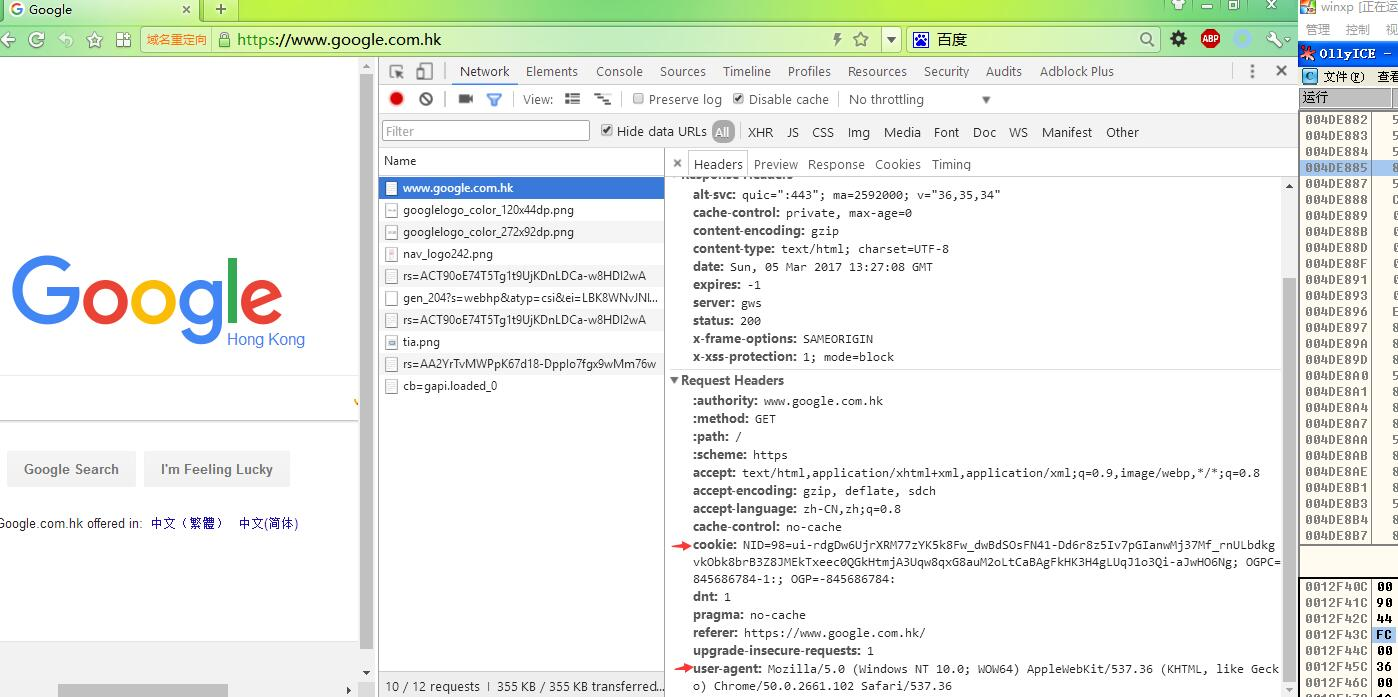
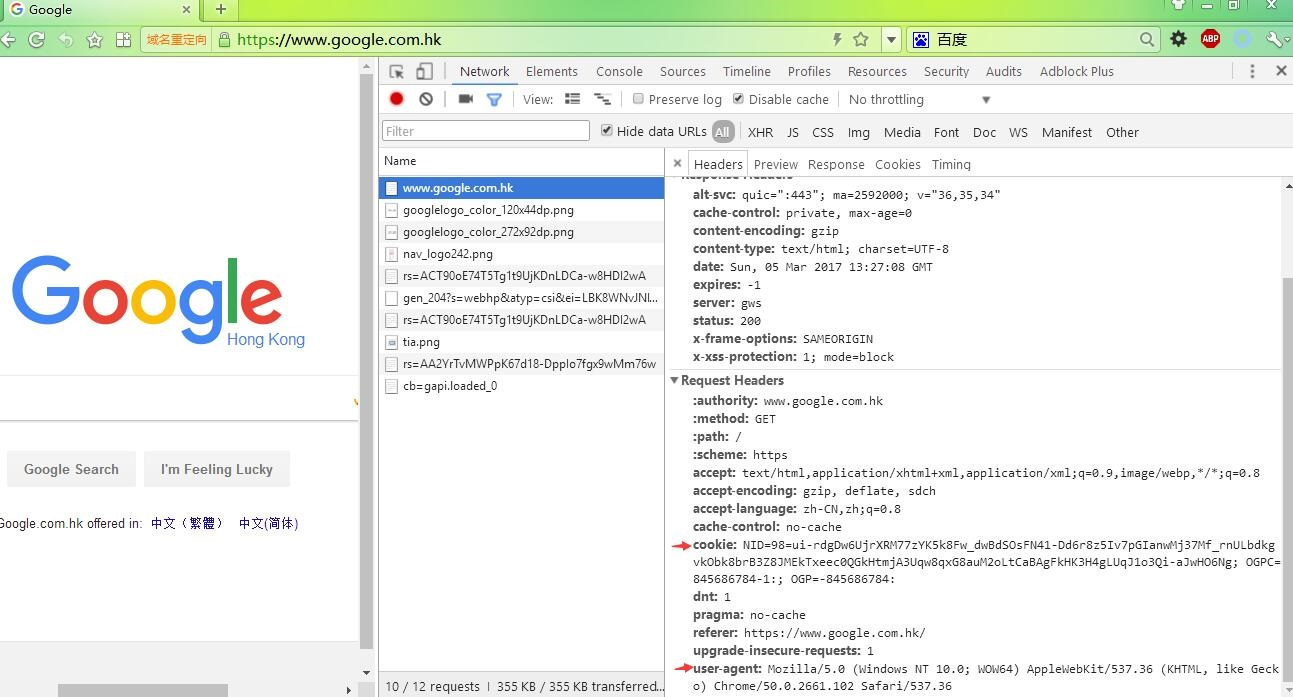
Make a request: get/post

diff --git a/README.md b/README.md
@@ -49,7 +49,16 @@ Moreover, I also need img, css, js and text:
 
 ## Documentation
 
-You can take a look at my [examples](examples/)
+### Before we continue...
+
+Do you know about HTTP protocol? If not, look at [this](https://en.wikipedia.org/wiki/Hypertext_Transfer_Protocol).
+
+Here are some keywords for writing a spider: Cookie, User-Agent, Referer, Proxy
+
+Here is a screenshot of using Chrome Developer Tools to inspect the http(s) request, in this picture, you can see some headers are sent to the server. Among these headers, `Cookie` and `User-Agent`(case-insensitive) are the most important for us writing a spider, by the way, sometimes the `Referer` is also essential.
+
+![](img/chrome.jpg)
+
 
 ### Object Initialization
 
@@ -82,10 +91,57 @@ def get(self, url, result=True, save=False, headers=None, o=False, cache=None, r
 def post(self, url, data, result=True, save=False, headers=None,cache=None)
 ```
 
-### Before we continue...
+__result__: use the BeautifulSoup to parse the html, default is True (if you care about time performance, please use `result=False` and use `re` module or whatever you want to extract information needed)
 
-Do you know about HTTP protocol? If not, look at [this](https://en.wikipedia.org/wiki/Hypertext_Transfer_Protocol).
+__save__: used in login request, if `save=True`, write the cookie to a file, filename is given by `cookiefile` during the object initialization(default is cookie.pickle)
 
-Here is a screenshot of using Chrome Developer Tools to inspect the http(s) request, in this picture, you can see some headers are sent to the server. Among these headers, `Cookie` and `User-Agent`(case-insensitive) are the most important for us writing a spider, by the way, sometimes the `Referer` is also essential.
+__headers__: dict, like {"csrf-token":"xxxxxx"}, added to request headers
 
-![](img/screenshot.jpg)
+__cache__: filename to write cache, if already exists, use cache rather than really get; using cache=True to use md5(url) as cache file name
+
+__failestring__: if failstring occurs in text, raise an exception
+
+for each request, the url is the basic one, for example, if a website has taken no anti-crawler actions, the url itself is enough.
+
+```
+>>> page=a.get("http://ip.cn")
+>>> print(len(page))
+3133
+```
+
+### Need the request object?
+
+this will get the source code of "ip.cn", we choose this as a demo, because it contains a useful information: your ip and your location.
+
+the technique below the EasyLogin is `requests`, and this function is actually calling requests.get (more precisely, requests.Session().get). So you may wonder how to get the request object like you get by doing `x=requests.get("http://ip.cn")`, the method is as below:
+
+```
+>>> from EasyLogin import EasyLogin
+>>> a=EasyLogin()
+>>> x=a.get("http://ip.cn",o=True)
+>>> print(x.headers)
+{'Transfer-Encoding': 'chunked', 'Connection': 'keep-alive', 'Content-Type': 'text/html; charset=UTF-8', 'Content-Encoding': 'gzip', 'Server': 'nginx/1.10.0 (Ubuntu)', 'Date': 'Sun, 05 Mar 2017 14:05:57 GMT'}
+>>> x=a.get("http://httpbin.org/redirect-to?url=http%3A%2F%2Fexample.com%2F", o=True)
+>>> x.headers["Location"]
+'http://example.com/'
+```
+
+### use cache to speed up!
+
+Imaging you are crawling a website, you need to modify the information extracting rule many times, but you don't need to crawl the website that much, once you have find out the url needed to crawl, just request one time and reuse the cache afterwards. I strongly recommend using cache to save your time!
+
+```
+>>> for i in range(5):
+...     a.get("http://httpbin.org/stream/{i}".format(i=i), cache=True)
+...
+>>> import os;os.listdir(".")
+['189091a11fd93218d3f95b4365576163', '3647fa4f6df52ce929158bc88cffbc59', '4c1e81a0b25286d8582f650e3b71f3aa', '896fa92d285edffb17509f10218f8b6e', 'b9a9e3036d06219bca93b22889f31fec']
+```
+
+if you want to control the cache filename, just set the filename to cache, like `cache="%d.html"%i`, otherwise if you don't care about the filename, just use `cache=True`, EasyLogin will use the md5(url) as the filename in get request, and use the md5(url+request_data) in post request.
+
+----
+
+# Examples
+
+You can take a look at my [examples](examples/)
